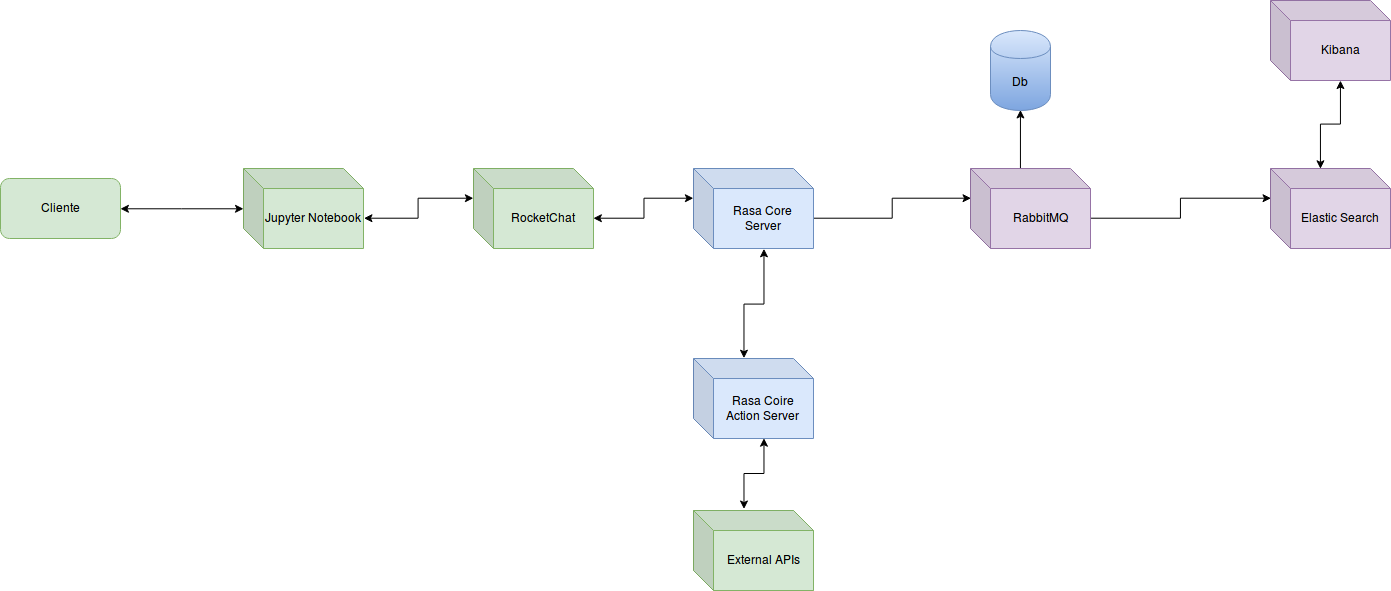
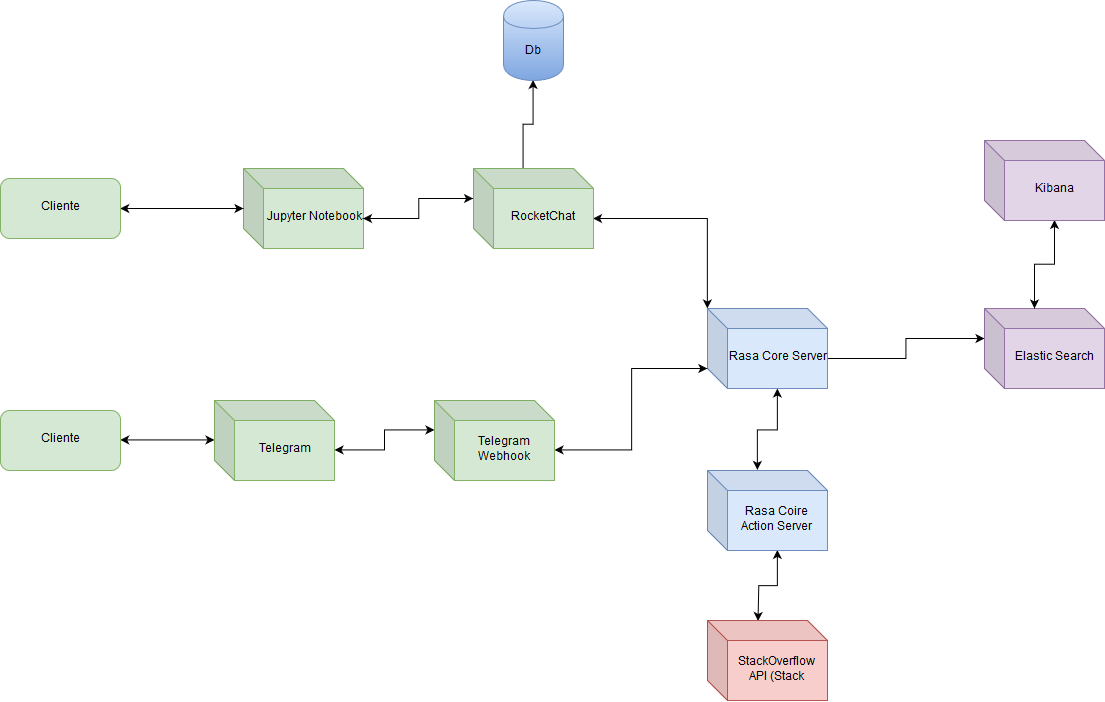
#78 - Finalizando correções dos tópicos e diagrama de relações

diff --git a/_posts/2019-03-29-documento-de-arquitetura.md b/_posts/2019-03-29-documento-de-arquitetura.md
@@ -13,7 +13,7 @@ tags: documento arquitetura mds
 ### 1.1 Finalidade
 
 <p align="justify"> &emsp;&emsp;
-Este documento oferece uma visão geral arquitetural abrangente do sistema e, desse modo, especifica decisões relevantes na produção e implementação do projeto Aix em relação ao assunto discorrido, explicitando como acontecerá a comunicação dos diversos serviços contidos no software como um todo. Para isso, serão empregues diversas características do projeto como casos de usos, restrições e requisitos, qualidade, desempenho dentre outros com a finalidade de fundamentar as decisões tomadas pela equipe de desenvolvimento no decorrer da estruturação do escopo.
+Este documento oferece uma visão geral arquitetural abrangente do sistema e, desse modo, especifica decisões relevantes na produção e implementação do projeto Aix em relação ao assunto discorrido, explicitando como acontecerá a comunicação dos diversos serviços contidos no software como um todo. Para isso, serão empregues diversas características do projeto como casos de usos, restrições e requisitos, qualidade, desempenho dentre outros com a finalidade de fundamentar as decisões tomadas pelo arquiteto em conjunto com o DevOps, PO, ScrumMaster e a Equipe de Desenvolvimento no decorrer da estruturação do escopo.
 </p>
 
 <!--more-->
@@ -21,7 +21,7 @@ Este documento oferece uma visão geral arquitetural abrangente do sistema e, de
 ### 1.2 Escopo
 
 <p align="justify"> &emsp;&emsp;
-Serão documentados neste trabalho os componentes de software, padrões, plataformas de desenvolvimento e frameworks necessários para a composição do programa que se dedica ao aprendizado de seus usuários da linguagem python. Resumidamente, o software consiste em um bot disponibilizado dentro de um de um script em JavaScript que pode ser executado dentro da plataforma Jupyter Notebook que será disponibilizada online, e o bot visa ensinar o básico sobre Python para os usuários.</p>
+Serão documentados neste trabalho os componentes de software, padrões, plataformas de desenvolvimento e frameworks necessários para a composição do programa que se dedica ao aprendizado de seus usuários da linguagem python. Resumidamente, o software consiste em um bot disponibilizado dentro de um de um script em JavaScript que pode ser executado dentro da plataforma Jupyter Notebook que será disponibilizada para download, o bot também será disponibilizado através do Telegram.</p>
 <p align="justify"> &emsp;&emsp;
 Neste artigo serão exploradas todas as informações relacionadas à arquitetura do projeto, como por exemplo diagramas de classes, casos de uso, entre outros.</p>
 
@@ -63,18 +63,22 @@ O ChatBot Aix será uma ferramente que irá utilizar várias ferramentas como in
 * Jupyter Notebook: Ferramenta de compartilhamento de documentos e códigos executaveis.
 * Telegram: Aplicativo de troca de mensagem.
 * Travis CI: Ferramenta utilizada para integração continua.
+* ElasticSearch: Ferramenta de análise de texto.
+* Kibana: Plugin do ElasticSearch para a visualização dos dados obtidos pelo mesmo.
 
 <p align="justify">
-O sistema deve garantir a privacidade dos dados inseridos em seu banco de dados, ele deve ser eficiente, conseguir responder às requisições em poucos segundos e ter alta disponibilidade, aproximandamente 99% do tempo. Ela também deverá atender aos requisitos não funcionais, como o estruturamento de código, para que assim seja garantida a manutenibilidade do sistema.
+O sistema deve garantir a privacidade dos dados inseridos em seu banco de dados, ele deve conseguir responder às requisições em poucos segundos e ter alta disponibilidade, aproximandamente 99% do tempo. Ela também deverá atender aos requisitos não funcionais, como disponibilidade, segurança, usabilidade, escalabilidade,e garantir a manutenibilidade do sistema.
 </p>
 
 # 3. Metas e Restrições da Arquitetura 
 
 São metas de de Arquitetura:
- - Disponibilizar ao usuário um fluxo constante de conversas para sanar a necessidade do usuário de aprender o básico sobre a linguagem Python.
+ - Disponibilizar ao usuário um fluxo constante de conversas para sanar a  necessidade do usuário de aprender o básico sobre a linguagem Python.
+ - Desacoplamento e independencia entre os serviços.
+ - Monitoramenteo e escalabilidade dos serviços.
 
-São restrições de Arquitetura
- - Fazer
+São restrições de Arquitetura:
+ - Serviços centrais como os do Rasa Core e o Rasa Actions não devem se comunicar diretamente com o cliente apenas através de interfaces e _APIs Gateways_.
  - Conexão necessária com a internet.
 
 # 4. Visão de Casos de Uso
@@ -96,17 +100,6 @@ São restrições de Arquitetura
 
 # 5. Visão Lógica
 
-
-<!-- # 6. Desempenho
-<p align="justify"> &emsp;&emsp;
-O desempenho do sistema será afetado por fatores como a velocidade da conexão do usuário com a internet e a quantidade de requisições sendo realizadas.
+### 4.1 Diagrama de Pacotes
+<p align="justify">
 </p>
-
-
-# 7. Qualidade
-<p align="justify"> &emsp;&emsp;
-A arquitetura baseada em microserviços é ideal neste projeto porque todos os serviços são independentes e por conta de tal independência é possível gerenciar o trafego de todos individualmente, de modo que fica mais fácil de replicar ou excluir containers quando o trafego aumenta consideravelmente.
-Além de que, pelo fato de serem independentes é possível escalar todos os serviços, adicionar novas funcionalidades e remontar a arquitetura de maneira muito mais simples do que em um serviço monolítico
-</p> -->
-
-
